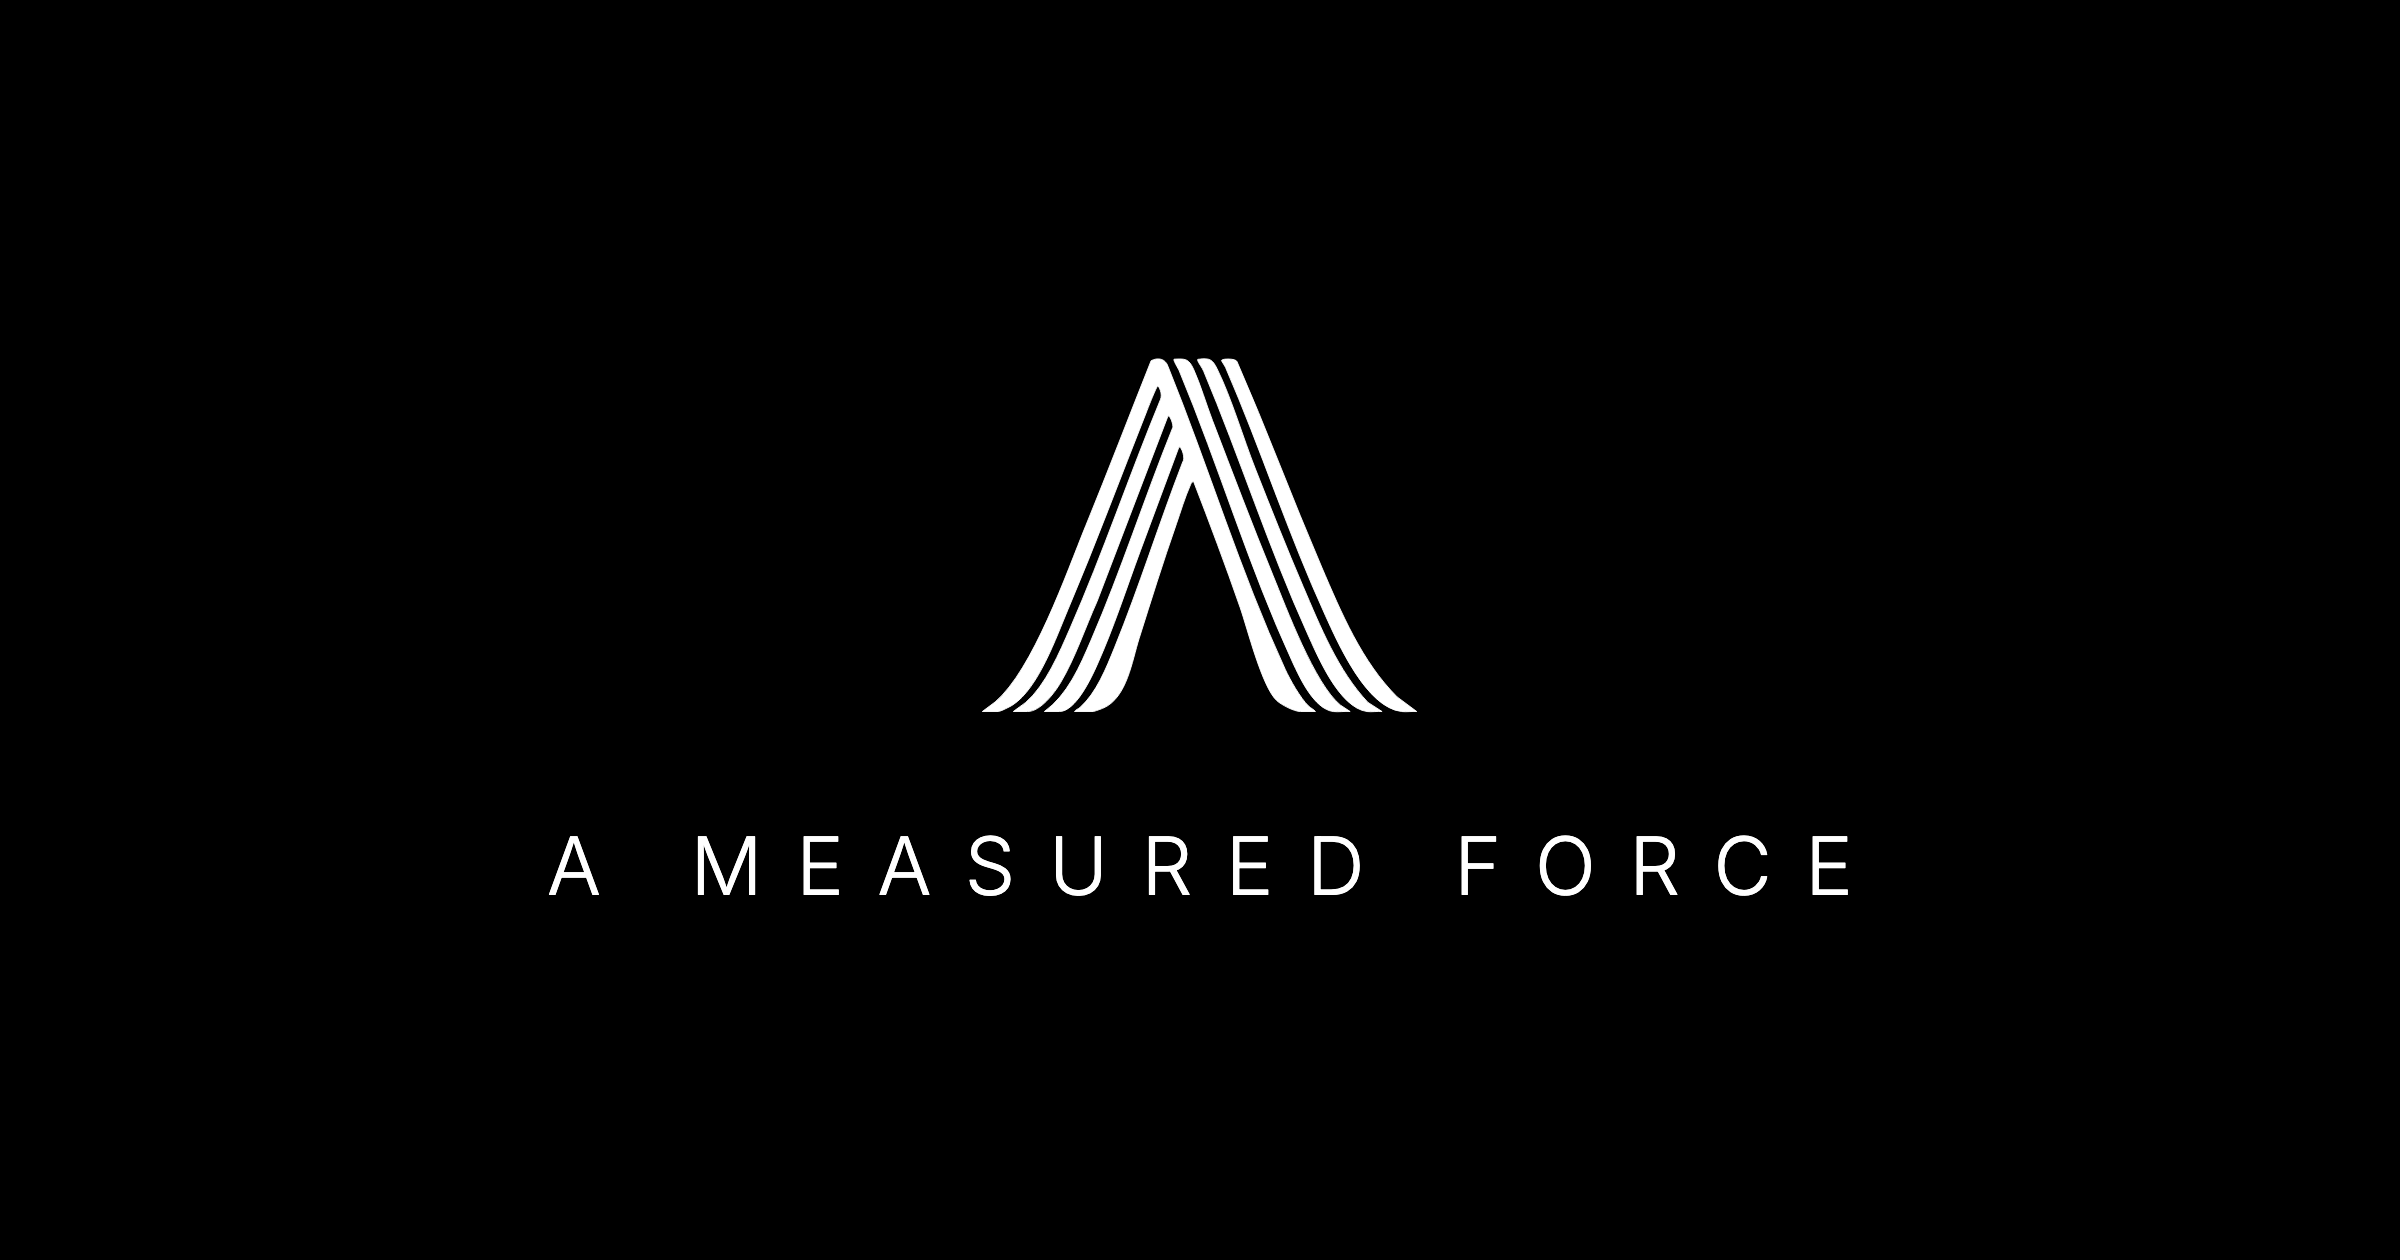
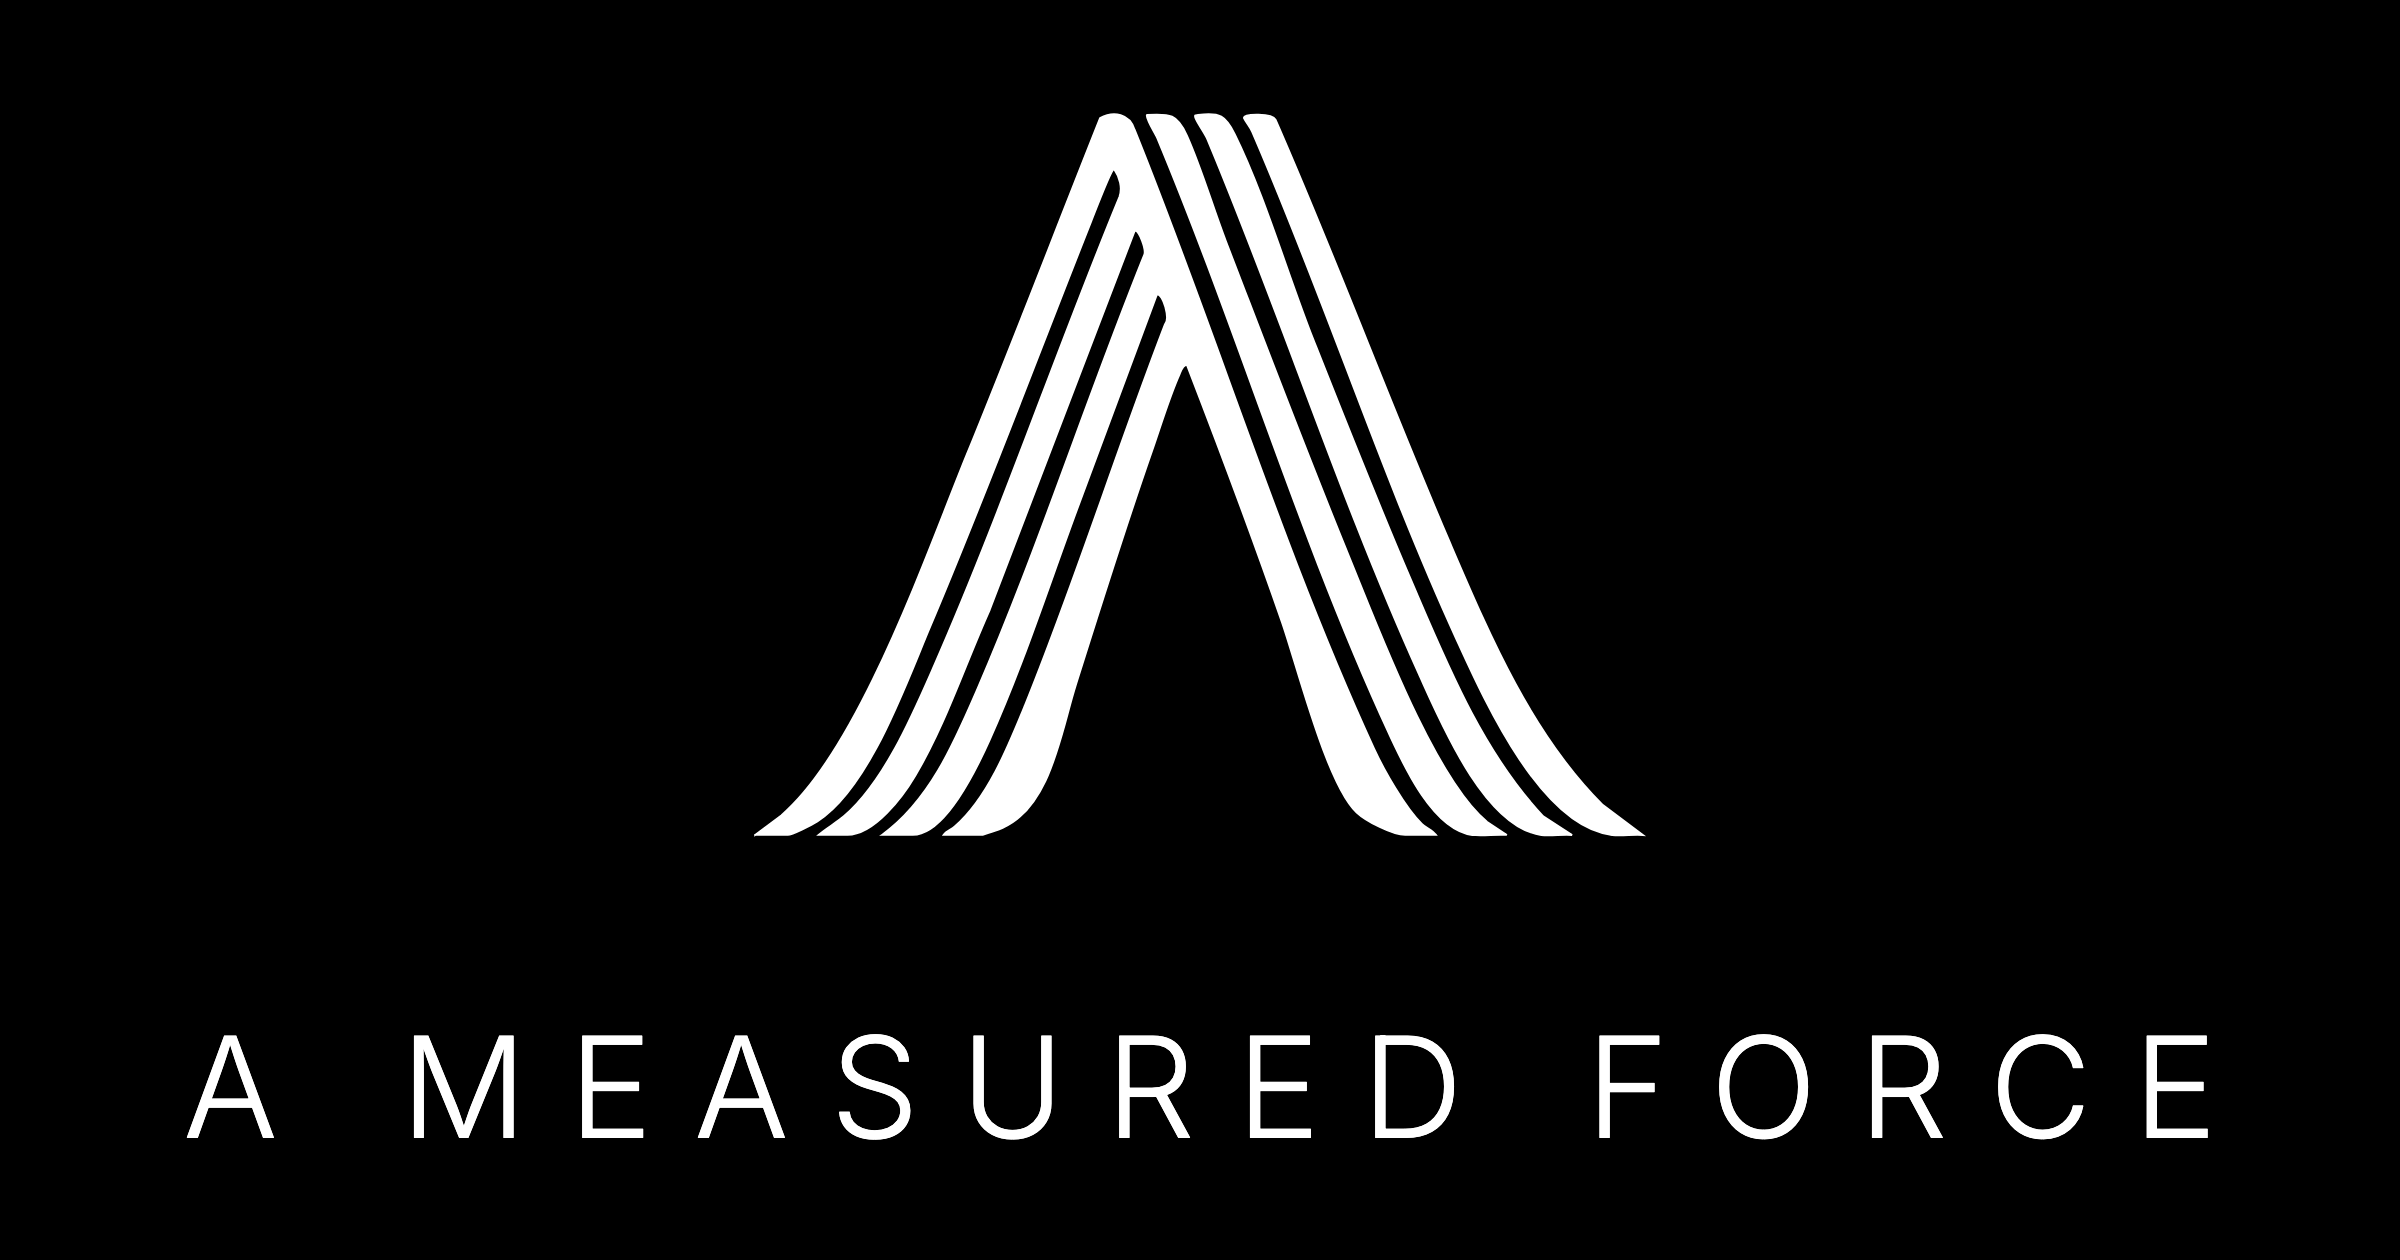
Mobile relief tuning, larger share image, contact + work-card tweaks
- shader-bg: AI page mobile now shows Theodoric (fullbody) at mobileY -37.3
  (head/chest framed under the IDP subheader); Pan moved down on About mobile
- og-image: enlarged logo + wordmark to fill the share card; homepage
  og:title/twitter:title now the full "A Measured Force | Growth Infrastructure
  for Ambitious Brands"
- contact: removed the displayed business phone number (Email + Location kept)
- style: removed the hover frame/border on home Work-section project images

diff --git a/js/shader-bg.js b/js/shader-bg.js
@@ -164,7 +164,7 @@
     about: [
       { src: '/assets/reliefs/athena.glb',     size: 10.0, flat: 0.22, x:  1.5, y: -3.0, mobileY: -2.5, mobileScale: 1.3, z:  0.25, rz: Math.PI + 0.06, rx:  0.30, ry: Math.PI,
         meta: { name: 'Athena (Minerva of Arezzo)', artist: 'Unknown', period: '300–270 BCE', material: 'Bronze', location: 'Museo Archeologico Nazionale, Italy' } },
-      { src: '/assets/reliefs/pan.glb',        size: 11.5, flat: 0.22, x: -1.5, mobileX: -1.0, y: -VIEWPORT_WORLD_H * 4.2 + 1.3, mobileY: -VIEWPORT_WORLD_H * 5.6 - 0.5, mobileDX: -1.2, emergeMargin: -1.5, z:  0.25, rz: 0.06, rx:  0.20, ry: Math.PI / 2 - 0.2,
+      { src: '/assets/reliefs/pan.glb',        size: 11.5, flat: 0.22, x: -1.5, mobileX: -1.0, y: -VIEWPORT_WORLD_H * 4.2 + 1.3, mobileY: -VIEWPORT_WORLD_H * 5.6 - 1.8, mobileDX: -1.2, emergeMargin: -1.5, z:  0.25, rz: 0.06, rx:  0.20, ry: Math.PI / 2 - 0.2,
         meta: { name: 'Pan et Oursons', artist: 'Emmanuel Fremiet', period: '1867', material: 'Marble', location: 'Musée d’Orsay, Paris, France' } },
       { src: '/assets/reliefs/bosio.glb',      size: 6.0,  flat: 0.22, x:  2.6, y: -VIEWPORT_WORLD_H * 3.0 + 2.0, mobileScale: 1.5, mobileDX: -0.3, z:  0.25, rz: Math.PI, rx:  0.0, ry: -Math.PI / 6, flatShade: true,
         meta: { name: 'La Nymphe Salmacis', artist: 'François Joseph Bosio', period: '1819–1837', material: 'Marble', location: 'Nouveau Musée National de Monaco, Monaco' } },
@@ -184,7 +184,7 @@
         pin: { startY: -VIEWPORT_WORLD_H * 4.0, endY: -VIEWPORT_WORLD_H * 7.0, offsetY: 0 },
         mobilePin: { startY: -11, endY: -17, offsetY: 0 },
         meta: { name: 'Portrait of a Bearded Man', artist: 'Unknown', period: 'c. 150 B.C.', material: 'Marble', location: 'The J. Paul Getty Museum, USA' } },
-      { src: '/assets/reliefs/fullbody.glb',   size: 9.0, flat: 0.25, x: 1.5, y: -VIEWPORT_WORLD_H * 10.0 - 6.5,  z:  0.25, rz: 0.0, rx: Math.PI, ry: 0.0,
+      { src: '/assets/reliefs/fullbody.glb',   size: 9.0, flat: 0.25, x: 1.5, y: -VIEWPORT_WORLD_H * 10.0 - 6.5, mobileY: -37.3, mobileZ: 0.15, emergeMargin: 0.5,  z:  0.25, rz: 0.0, rx: Math.PI, ry: 0.0,
         meta: { name: 'Theodoric the Great', artist: 'Peter Vischer the Elder (after Dürer)', period: '1512–13', material: 'Bronze', location: 'Court Church Innsbruck, Austria' } },
     ],
   };

diff --git a/index.html b/index.html
@@ -9,7 +9,7 @@
   <!-- Open Graph / link preview -->
   <meta property="og:type" content="website">
   <meta property="og:site_name" content="A Measured Force">
-  <meta property="og:title" content="A Measured Force">
+  <meta property="og:title" content="A Measured Force | Growth Infrastructure for Ambitious Brands">
   <meta property="og:description" content="Growth infrastructure for ambitious brands — strategy, design, and custom AI solutions.">
   <meta property="og:url" content="https://www.ameasuredforce.com/">
   <meta property="og:image" content="https://www.ameasuredforce.com/assets/og-image.png">
@@ -19,7 +19,7 @@
 
   <!-- Twitter -->
   <meta name="twitter:card" content="summary_large_image">
-  <meta name="twitter:title" content="A Measured Force">
+  <meta name="twitter:title" content="A Measured Force | Growth Infrastructure for Ambitious Brands">
   <meta name="twitter:description" content="Growth infrastructure for ambitious brands — strategy, design, and custom AI solutions.">
   <meta name="twitter:image" content="https://www.ameasuredforce.com/assets/og-image.png">
 

diff --git a/css/style.css b/css/style.css
@@ -788,9 +788,9 @@ body.menu-open footer {
 }
 .works-cycle-item.is-active img { filter: grayscale(0); }
 /* Hover: the img's transform/filter are rewritten inline every frame, so lift the
-   WRAPPER instead — scale it up + a bright frame (var(--ink) displays bright under
-   the page's invert). Pairs with the cursor's ring + "View" label. */
-.works-cycle-item:hover { transform: scale(1.05); box-shadow: 0 0 0 2px var(--ink); }
+   WRAPPER instead — scale it up. Pairs with the cursor's ring + "View" label.
+   (No frame/border — relies on the cursor ring for the affordance.) */
+.works-cycle-item:hover { transform: scale(1.05); }
 
 /* ============ SERVICES ============ */
 .services { padding: 10rem var(--pad); border-top: 1px solid var(--border); }

diff --git a/contact.html b/contact.html
@@ -69,10 +69,6 @@
             <a href="mailto:info@ameasuredforce.com" class="contact-detail contact-detail-lg">info@ameasuredforce.com</a>
           </div>
           <div class="contact-block">
-            <span class="contact-label-pill">Phone</span>
-            <a href="tel:+13102590344" class="contact-detail contact-detail-lg">(310) 259-0344</a>
-          </div>
-          <div class="contact-block">
             <span class="contact-label-pill">Location</span>
             <span class="contact-detail contact-detail-lg">Los Angeles, CA</span>
           </div>
